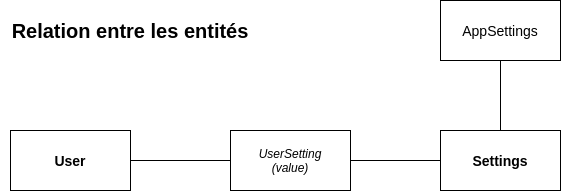
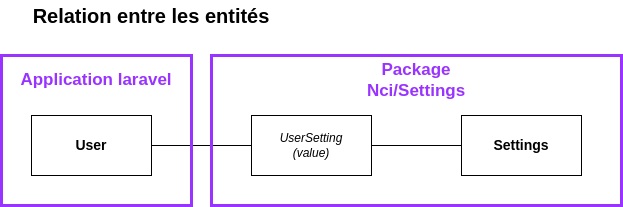
feat: maj docs

diff --git a/doc/NCISetttings.md b/doc/NCISetttings.md
@@ -6,19 +6,19 @@ Objectif : gérer les paramètres de l'application au travers d'objets gérable 
 
 ## Modèle Setting
 
-| Attribut    | Description                                                                          | Requis | Default       |
-| ----------- | ------------------------------------------------------------------------------------ | ------ | ------------- |
-| id          | Identifiant numérique du paramètre dans la table                                     | x      |               |
-| group       | Chaine de caractère permettant de grouper un bloc de paramètres                      | x      | 'core'        | core.subcat.subsubcat
-| scope       | Portée du paramètre: 'Application' / 'Rôle'                                          | x      | 'application' | 'application' ou 'user'
-| code        | Identifiant texte du paramètre                                                       | x      |               | terminalFont
-| description | Explication du paramètre en Français                                                 | x      |               | Lorem ipsum et bla bla
-| type        | type du paramètre: Boolean, Number, String, Array, Json                              | x      |               |
-| json_options| {"type":"array/jsonarray/jsonsql","data":[]} ou null                                 |        |               |
-| nullable    | Boolean indiquant si le paramètre peut être null ou non                              | x      |               |
-| default     | Valeur par défaut du paramètre                                                       |        |               |
-| favorite    | Indique si le paramètre est souvent utilisé ou non                                   | x      | false         |
-| width       | Largeur du champ de saisie '1/4', '1/3', '1/2', '2/3', '3/4', 'full'                 | x      | 1/4           |
+| Attribut     | Description                                                                          | Requis | Default       |
+| -----------  | ------------------------------------------------------------------------------------ | ------ | ------------- |
+| id           | Identifiant numérique du paramètre dans la table                                     | x      |               |
+| code         | Identifiant texte du paramètre                                                       | x      |               | user.interface.backgournd.color
+| description  | Explication du paramètre en Français                                                 | x      |               | Couleur de fond pour le user
+| type         | type du paramètre: Boolean, Number, String, Array, Json                              | x      |               |
+| options_class| correspond à l'interface utilisée pour traduire options_class                        |        |               |
+| options_data | champs text qui contient plusieurs types de données qui sont les choix possibles     |        |               |
+| nullable     | Boolean indiquant si le paramètre peut être null ou non                              | x      |               |
+| overridable  | Boolean indiquant si un user peu avoir une custom value                              | x      | true
+| default      | Valeur par défaut du paramètre                                                       |        |               |
+| favorite     | Indique si le paramètre est souvent utilisé ou non                                   | x      | false         |
+| width        | Largeur du champ de saisie '1/4', '1/3', '1/2', '2/3', '3/4', 'full'                 | x      | 1/4           |
 
 ## Types Spécifiques
 - Array
@@ -60,21 +60,16 @@ Objectif : gérer les paramètres de l'application au travers d'objets gérable 
 
 // Retourne tous les groupes de paramètres
 public static function Setting::groups(): collection<Setting>
-
 // set options
 public static function Setting::setOptions(Setting $setting, string $options);
-
 // set default
 public static function Setting::setDefault(Setting $setting, string $value);
-
 // Retourne la liste de tous les paramètres confondus
 public static function Setting::app(string $group = null): array;
 public static function Setting::user(User $user, string $group = null): array;
-
 // set value
 public static function Setting::setForApp(Setting $setting, value);
 public static function Setting::setForUser(User $user, Setting $setting, value);
-
 // Retourne le paramètre identifié par "code".
 public static function Setting::find(int $id): stdClass;
 public static function Setting::findByCode(string $code): stdClass;
@@ -83,10 +78,16 @@ public static function Setting::findByCode(string $code): stdClass;
 
 // Ca serait bien
 $user->setting($code)
-
 // Ca serait topisime
 app()->setting($code);
-
+/**
+ * Résultat :
+ * Du fait du refacto il n'y plus de setting user ou app,
+ * Setting::all() retournera donc tous les settings de l'application.
+ * En revanche en ajoutant le trait "UserHasSettings" cela permet de
+ * récupérer les settings de l'application avec les valeurs "override"
+ * de l'utilisateur.
+*/
 
 ```
 
